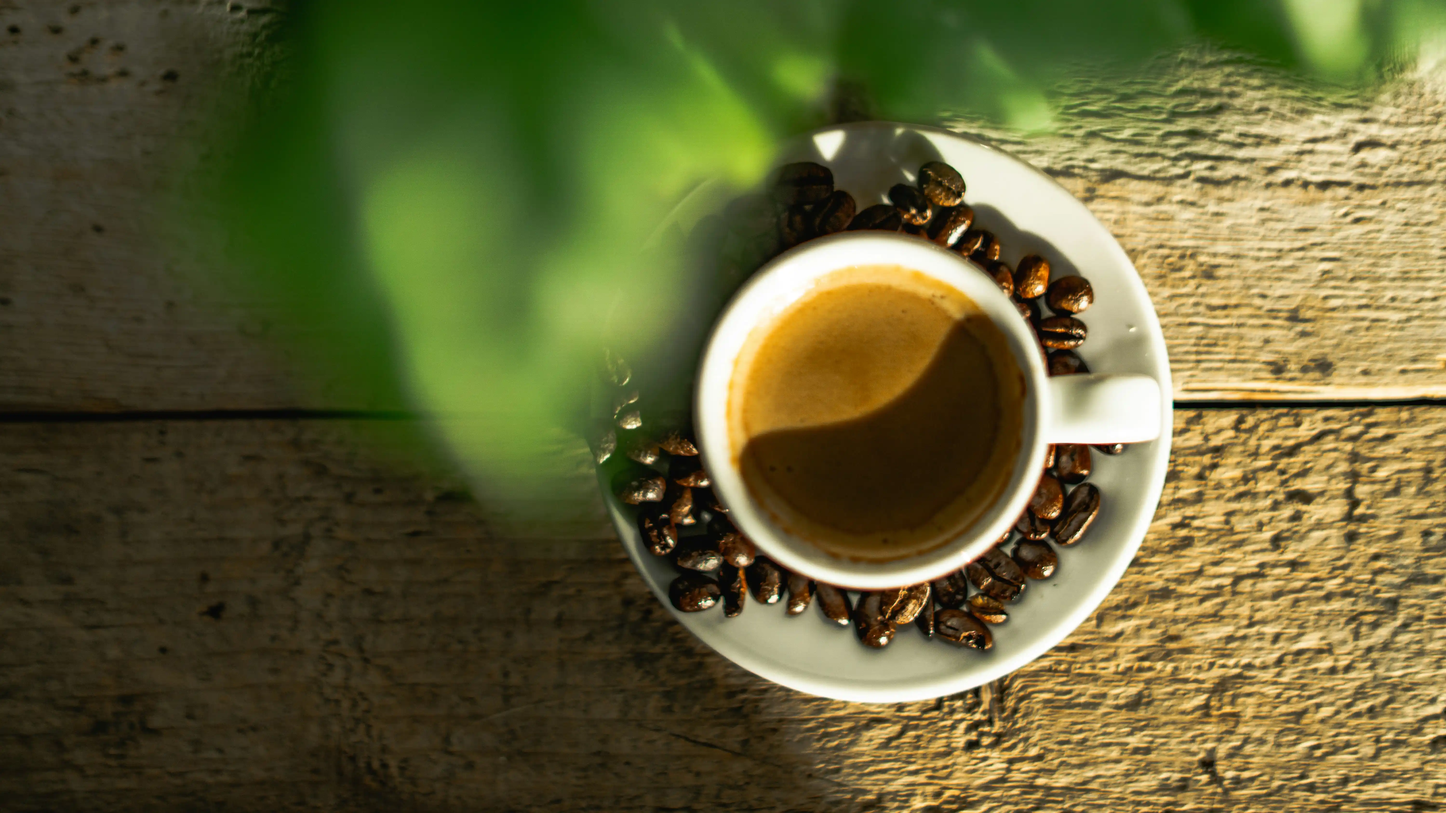
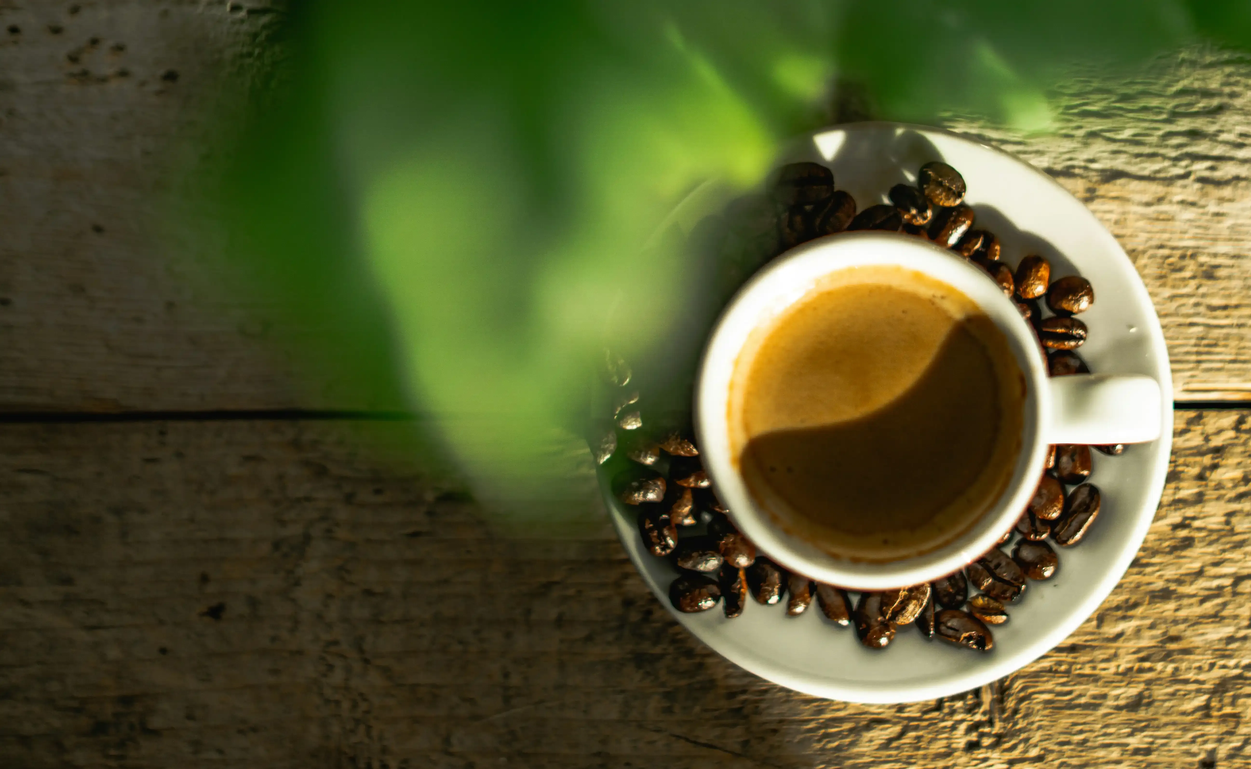
Added heade, everything looks good. proceede further develepment

diff --git a/styles.css b/styles.css
@@ -23,13 +23,14 @@ nav{
     top: 0;
     right: 0;
     left: 0;
-    backdrop-filter: blur(8px);
     height: 4.8rem;
     padding: 1rem 0;
     font-family: Gilda Display,'Times New Roman', Times, serif;
 }
 
 nav ul{
+    
+    height: 100%;
     width: 100%;
     display: flex;
     list-style: none;
@@ -48,18 +49,19 @@ nav li:first-child{
 }
 
 #sidebar{
+    backdrop-filter: blur(10px);
     position: fixed;
     top: 0;
     right: 0;
     height: 100vh;
-    backdrop-filter: blur(8px);
     width: 25rem;
     z-index: 999;
-    display: flex;
+    display: none;
     flex-direction: column;
     justify-content:flex-start;
     align-items:center;
     gap: 10px;
+    animation: appear 0.1s linear;
 }
 #sidebar li{
     padding: 1rem 0;
@@ -74,18 +76,16 @@ nav a:hover{
     text-decoration: underline;
 }
 
-@media(max-width: 900px) {
+@media(max-width: 999px) {
     .hideonmobile{
         display: none;
     }
 }
 
-@media(min-width: 900px) {
+@media(min-width: 999px) {
     .hideondesktop{
         display: none;
     }
-
-     
 }
 
 @media(max-width:500px){
@@ -96,4 +96,93 @@ nav a:hover{
         padding: 2rem;
     }
 
+}
+
+/* Header */
+
+header{
+    min-height: 100vh;
+    background-image: url(images/image1.webp);
+    background-repeat: no-repeat;
+    background-position: center;
+    background-size: cover;
+    display: flex;
+    flex-direction: column;
+    padding: 0 4rem;
+    justify-content: center;
+    gap: 2rem;
+}
+
+header h1{
+    font-family: DM Serif Display;
+    color: var(--primary);
+    font-size: 8rem;
+    line-height: 6.25rem;
+    text-shadow:1px 2px  var(--complimentary1);
+    max-width: 38rem;
+    animation: fade1 0.5s ease-in;
+}
+
+header p{
+    animation: fade2 1s ease-in;
+}
+
+/* Sections */
+
+/* Utilities */
+.regular{
+    font-family: Gilda Display,'Times New Roman', Times, serif;
+    color: var(--primary);
+    max-width: 38rem;
+    font-size: 1.5rem;
+}
+.btn{
+    background-color: var(--complimentary1);
+    height: 4rem;
+    width: 17.5rem;
+    display: flex;
+    justify-content: center;
+    align-items: center;
+    text-decoration: none;
+    color: var(--complimentary0);
+    font-size: 1.5rem;
+    border-radius: 16px;
+    box-shadow: 8px 8px var(--complimentary0);
+}
+
+.btn:hover{
+    transform: translate(8px,8px);
+    box-shadow: none;
+}
+
+/* Animations */
+@keyframes appear {
+    0%{
+        transform: translateX(4rem);
+    }
+    100%{
+        transform: translateX(0);
+    }
+}
+
+@keyframes fade1 {
+    0%{
+        opacity: 0;
+        transform: translateY(1.5rem);
+    }
+    100%{
+        opacity:initial;
+        transform: translateY(0);
+    }
+}
+
+@keyframes fade2 {
+    0%{
+        opacity: 0;
+        transform: translateY(-1rem);
+    }
+    100%{
+        opacity:initial;
+        transform: translateY(0);
+    }
 }

diff --git a/index.html b/index.html
@@ -29,6 +29,12 @@
         </ul>
     </nav>
 
+    <header>
+        <h1>Fuel Your Focus</h1>
+        <p class="regular">High-speed Wi-Fi, plenty of outlets, and the caffeine kick you need to conquer your to-do list.</p>
+        <a href="#location" class="btn">Visit Us</a>
+    </header>
+
     <script>
         function showSidebar(){
             const sidebar = document.getElementById("sidebar");
